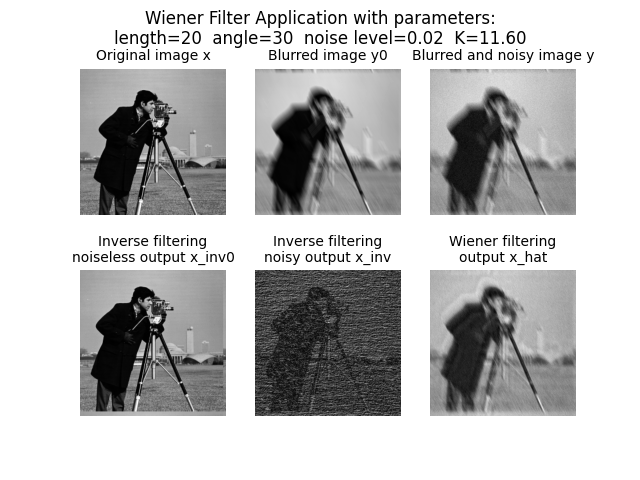
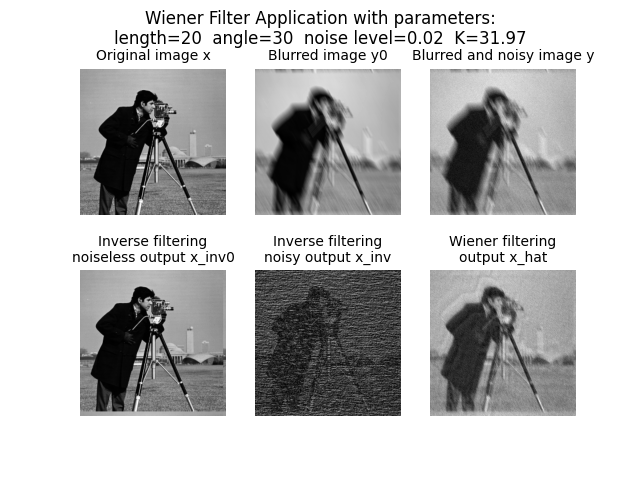
Add files via upload

Changed region(s): [[0.375, 0.5625, 0.625, 0.875], [0.75, 0.0625, 0.8438, 0.0938]]

diff --git a/wiener_filtering.py b/wiener_filtering.py
@@ -3,11 +3,31 @@ import matplotlib.pyplot as plt
 from scipy.ndimage import convolve
 
 # Function to add zero padding
-def add_zero_padding(image, pad_width):
+def add_zero_padding(image:np.ndarray, pad_width:int) -> np.ndarray:
+    """
+    Adds zero padding to an image for filter convolution
+    
+    Args:
+    - image: the numpy array representing the image to be padded
+    - pad_width: the ammount of pizels that will be added to all 4 sides of the image
+
+    Returns:
+    - Padded image    
+    """
     return np.pad(image, pad_width, mode='constant', constant_values=0)
 
 # Function to remove zero padding
-def remove_zero_padding(padded_image, pad_width):
+def remove_zero_padding(padded_image:np.ndarray, pad_width:int) -> np.ndarray:
+    """
+    Removes zero padding to an image afer filter convolution
+    
+    Args:
+    - image: the padded image
+    - pad_width: the ammount of pizels that will be added to all 4 sides of the image
+
+    Returns:
+    - Image without padding   
+    """
     return padded_image[pad_width:-pad_width, pad_width:-pad_width]
 
 def my_wiener_filter(y: np.ndarray, h: np.ndarray, K: float) -> np.ndarray:
@@ -15,12 +35,12 @@ def my_wiener_filter(y: np.ndarray, h: np.ndarray, K: float) -> np.ndarray:
     Implements a Wiener filter for signal estimation.
 
     Args:
-    - y: Observed signal (1D numpy array)
-    - h: Impulse response of the filter (1D numpy array)
+    - y: Observed signal (2D numpy array)
+    - h: Impulse response of the filter (2D numpy array)
     - K: Power spectral density ratio (float)
 
     Returns:
-    - Estimated signal (1D numpy array)
+    - Estimated signal (2D numpy array)
     """
     # Compute the 2D Fourier transform of the observed signal and the impulse response
     Y = np.fft.fft2(y)
@@ -40,7 +60,18 @@ def my_wiener_filter(y: np.ndarray, h: np.ndarray, K: float) -> np.ndarray:
     # Return the real part of the filtered signal
     return np.real(x_hat)
 
-def j_curve(y: np.ndarray, h: np.ndarray, K_values: np.ndarray) -> np.ndarray:
+def j_curve(x:np.ndarray, y: np.ndarray, h: np.ndarray, K_values: np.ndarray) -> np.ndarray:
+    """
+    Computes the error values of the implemented Wiener Filter for a set range of K values
+
+    Args:
+    - y: Observed signal (2D numpy array)
+    - h: Impulse response of the filter (2D numpy array)
+    - K_values: Range of K values
+
+    Returns:
+    - Mean Square Errors for every K values
+    """
     mse_values = []
     
     for K in K_values:
@@ -48,14 +79,28 @@ def j_curve(y: np.ndarray, h: np.ndarray, K_values: np.ndarray) -> np.ndarray:
         x_hat = my_wiener_filter(y, h, K)
         
         # Compute Mean Squared Error (MSE) between the original signal y and filtered signal x_hat
-        mse = np.mean((y - x_hat)**2)
+        mse = np.mean((x - x_hat)**2)
         mse_values.append(mse)
     
     return np.array(mse_values)
 
-def find_best_K(y: np.ndarray, h: np.ndarray, K_values: np.ndarray, image_path: str) -> float:
+def find_best_K(x:np.ndarray, y: np.ndarray, h: np.ndarray, K_values: np.ndarray, image_path: str) -> float:
+    """
+    Finds the optimal K value of the Wiener Filter for MSE minimization
+    Saves the J Curve graph in a designated path
+
+    Args:
+    - y: Observed signal (2D numpy array)
+    - h: Impulse response of the filter (2D numpy array)
+    - K_values: Range of K values
+    - image_path: the path to save the graph
+
+    Returns:
+    - K value with minimum MSE
+    """
+    
     # Compute MSE values for given K values
-    mse_values = j_curve(y, h, K_values)
+    mse_values = j_curve(x, y, h, K_values)
     
     # Find the index of the minimum MSE
     best_K_index = np.argmin(mse_values)
@@ -75,6 +120,16 @@ def find_best_K(y: np.ndarray, h: np.ndarray, K_values: np.ndarray, image_path: 
     return K_values[best_K_index]
 
 def inverse_filtering(y: np.ndarray, h:np.ndarray):
+    """
+    Applies the reverse filter to an image
+
+    Args:
+    - y: Observed signal (2D numpy array)
+    - h: Impulse response of the filter to be reversed (2D numpy array)
+
+    Returns:
+    - Signal with reversed filter applied
+    """
     Y = np.fft.fft2(y)
     H = np.fft.fft2(h, Y.shape)
     Y_inv = np.fft.ifft2(Y / (H + 10**(-10)))

diff --git a/demo.py b/demo.py
@@ -4,8 +4,12 @@ from scipy.ndimage import convolve
 import matplotlib.pyplot as plt
 from hw3_helper_utils import create_motion_blur_filter
 from wiener_filtering import *
+
 def main():
-    # Path to the image inside the subfolder - CHANGE IF NEEDED
+    # Parameters configuration - CHANGE IF NEEDED
+    noise_level = 0.02
+    length = 20
+    angle = 30
     image_path = 'D:/Σχολή/8ο εξάμηνο/Ψηφιακή Επεξεργασία Εικόνας/hw3/'
     image_name = 'cameraman'
     
@@ -17,11 +21,6 @@ def main():
     x = np.array(img).astype(float)
     if np.any(x > 1.0):
         x *= 1/255
-
-    # Parameters configuration
-    noise_level = 0.02
-    length = 20
-    angle = 30
 
     # Zero Padding Handling 
     M, N = x.shape
@@ -43,8 +42,8 @@ def main():
     x_inv0 = inverse_filtering(y0, h)
     
     # K optimization
-    K_values = np.linspace(1, 100, 1000) 
-    best_K = find_best_K(y, h, K_values, image_path)
+    K_values = np.linspace(1, 500, 1000) 
+    best_K = find_best_K(x_inv0, y, h, K_values, image_path)
     print(f"Best K value found: {best_K:.2f}")
 
     # Optimal Wiener Filter
